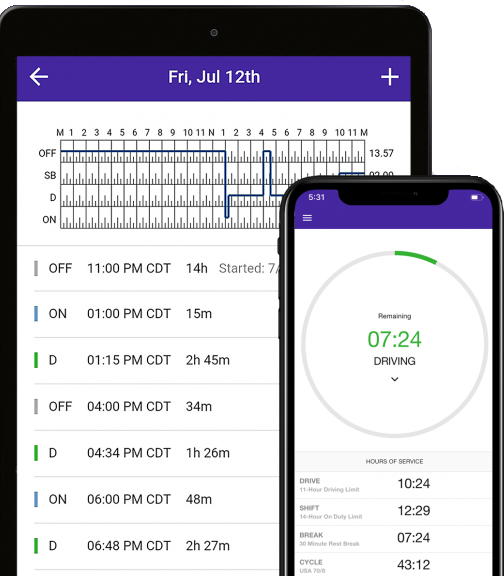
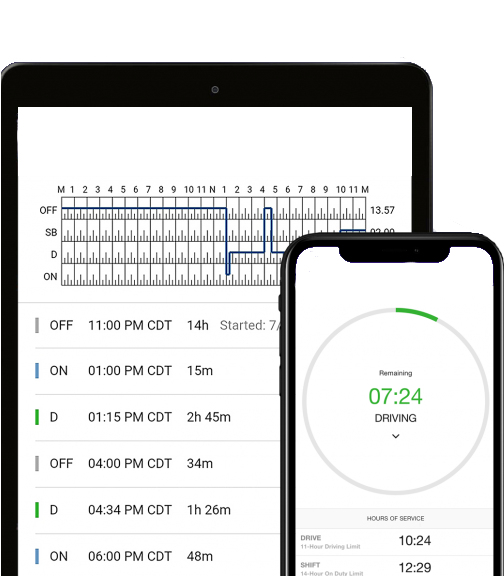
layes styling chage

diff --git a/style.css b/style.css
@@ -1,3 +1,4 @@
+
 * {
     margin: 0;
     padding: 0;
@@ -210,5 +211,37 @@ h2 {
     margin: auto;
     text-align: center;
     padding-top: 50px;
-
 }
+
+.provider-col {
+    flex-basis: 32%;
+    border-radius: 10px;
+    margin-bottom: 30px;
+    position: relative;
+    overflow: hidden;
+}
+
+.provider-col img {
+    width: 100%;
+}
+
+.layer{
+    background: transparent;
+    height: 100%;
+    width: 100%;
+    position: absolute;
+    top: 0;
+    left: 0;
+    transition: 1s;
+}
+
+.layer:hover{
+    background: linear-gradient(to top, #002fff6d 0%, #ffffff75 100%);
+}
+
+
+
+
+
+
+

diff --git a/index.html b/index.html
@@ -102,10 +102,11 @@
 			<p>Lorem ipsum dolor sit, amet consectetur adipisicing elit. Mollitia, placeat! Unde quod rem magnam, nihil, minima fugit quisquam laborum quaerat quo consequatur tempore id nemo inventore et repellat ratione numquam.</p>
 		
 			<div class="row">
-				<div class="campus-col">
-					<div class="campus-col">
-						<img src="images/ipad_&_phone.png" alt="">
-					</div>
+				<div class="provider-col">
+						<img src="images/ipad_&_phone.png">
+						<div class="layer">
+							<h3 class="title_name">cross platform</h3>
+						</div>
 				</div>
 			</div>
 
